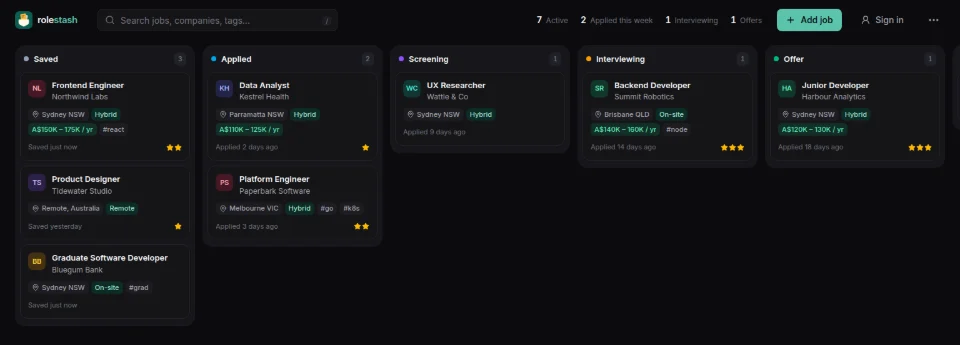
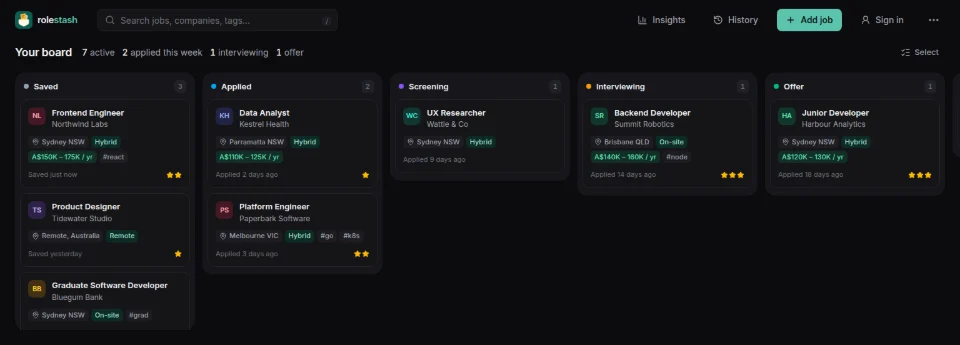
docs(site): show the floating widget and one Pro plan on the website
- Homepage: "Save, apply and track without leaving the page", with the
  illustration redrawn as the widget (columns, Save job, Fill this
  application). Board screenshots regenerated with the new header, and
  without the pin tip.
- Pricing: a two-column grid for Free and Pro.
- Support: extraction details are in the panel's menu.

diff --git a/site/index.html b/site/index.html
@@ -414,24 +414,29 @@
 
           <article class="benefit">
             <div class="benefit-copy">
-              <h3>Save any job in one click</h3>
+              <h3>Save, apply and track without leaving the page</h3>
               <p>
-                Open a posting on SEEK, LinkedIn, Indeed, Workday, Greenhouse or almost any careers
-                page, then click the Rolestash button at the edge of the page (or the Rolestash
-                icon, <kbd>Alt</kbd>+<kbd>J</kbd>, anywhere else). The title, company, salary and
-                closing date fill themselves in, and anything uncertain is flagged for you to check.
+                On SEEK, LinkedIn, Indeed, Workday, Greenhouse and 50+ other job sites, the
+                Rolestash button sits at the edge of the page. One click saves the posting with its
+                title, company, salary and closing date filled in. The same panel fills in the
+                application from your profile and moves the job to Applied. On any other careers
+                page, click the Rolestash icon or press <kbd>Alt</kbd>+<kbd>J</kbd>.
               </p>
-              <p class="benefit-note">Found the same role twice? It stays one card.</p>
+              <p class="benefit-note">
+                Anything uncertain is flagged for you to check, and the same role found twice stays
+                one card.
+              </p>
             </div>
             <div class="stage">
               <figure
                 class="artefact capture"
                 role="img"
-                aria-label="The save dialog with a job filled in: Frontend Engineer at Northwind Labs, Sydney, hybrid, A$150K to 175K a year, closing 14 October. The salary is flagged to check."
+                aria-label="The Rolestash panel on a job page: Frontend Engineer at Northwind Labs, Sydney, hybrid, A$150K to 175K a year, closing 14 October, with the salary flagged to check, the Saved column chosen, and buttons to save the job and fill the application."
               >
                 <div class="art-head">
                   <span class="art-mark"></span>
-                  <span>Save this job</span>
+                  <span>Rolestash</span>
+                  <span class="art-close" aria-hidden="true">×</span>
                 </div>
                 <dl class="capture-fields">
                   <div>
@@ -455,8 +460,15 @@
                     <dd>14 Oct</dd>
                   </div>
                 </dl>
+                <div class="art-chips">
+                  <span class="art-chip on">Saved</span>
+                  <span class="art-chip">Applied</span>
+                  <span class="art-chip">Interviewing</span>
+                  <span class="art-chip">Offer</span>
+                </div>
                 <div class="art-foot">
-                  <span class="art-btn">Save to board</span>
+                  <span class="art-btn art-btn-ghost">Fill this application</span>
+                  <span class="art-btn">Save job</span>
                 </div>
               </figure>
             </div>

diff --git a/site/assets/site.css b/site/assets/site.css
@@ -1027,6 +1027,7 @@ kbd {
 .art-foot {
   display: flex;
   justify-content: flex-end;
+  gap: 8px;
   padding-top: 12px;
   border-top: 1px solid var(--line);
 }
@@ -1038,6 +1039,40 @@ kbd {
   color: var(--accent-ink);
   font-weight: 600;
   font-size: 13px;
+}
+
+.art-btn-ghost {
+  background: transparent;
+  color: var(--ink);
+  box-shadow: inset 0 0 0 1px var(--line);
+}
+
+.art-close {
+  margin-left: auto;
+  color: var(--muted);
+  font-weight: 400;
+}
+
+.art-chips {
+  display: flex;
+  flex-wrap: wrap;
+  gap: 6px;
+  padding: 12px 0;
+}
+
+.art-chip {
+  padding: 3px 10px;
+  border: 1px solid var(--line);
+  border-radius: 999px;
+  color: var(--muted);
+  font-size: 12px;
+}
+
+.art-chip.on {
+  border-color: var(--spruce);
+  background: var(--accent-soft);
+  color: var(--ink);
+  font-weight: 600;
 }
 
 .columns {
@@ -1698,8 +1733,10 @@ kbd {
 .plans {
   display: grid;
   gap: 20px;
-  grid-template-columns: repeat(3, 1fr);
+  grid-template-columns: repeat(2, 1fr);
   align-items: stretch;
+  max-width: 820px;
+  margin-inline: auto;
 }
 
 @media (max-width: 860px) {

diff --git a/site/support/index.html b/site/support/index.html
@@ -124,8 +124,8 @@
         <h2>Common questions</h2>
         <h3>A job came out wrong or incomplete</h3>
         <p>
-          Open the Rolestash popup on the posting and choose <em>Extraction details</em>. Then email
-          us the page address, and we'll improve support for that site.
+          Open the Rolestash panel on the posting, then <em>⋯</em> → <em>Extraction details</em>.
+          Then email us the page address, and we'll improve support for that site.
         </p>
         <h3>The icon does nothing on a page</h3>
         <p>

diff --git a/scripts/site-screenshots.ts b/scripts/site-screenshots.ts
@@ -188,7 +188,8 @@ async function main() {
           ];
         }),
       );
-      await chrome.storage.local.set(entries);
+      // The "Pin Rolestash" tip is for real installs, not the website.
+      await chrome.storage.local.set({ ...entries, 'tips:pinDismissed': true });
     }, JOBS);
 
     const shots: { name: string; viewport: { width: number; height: number }; widths: number[] }[] =
